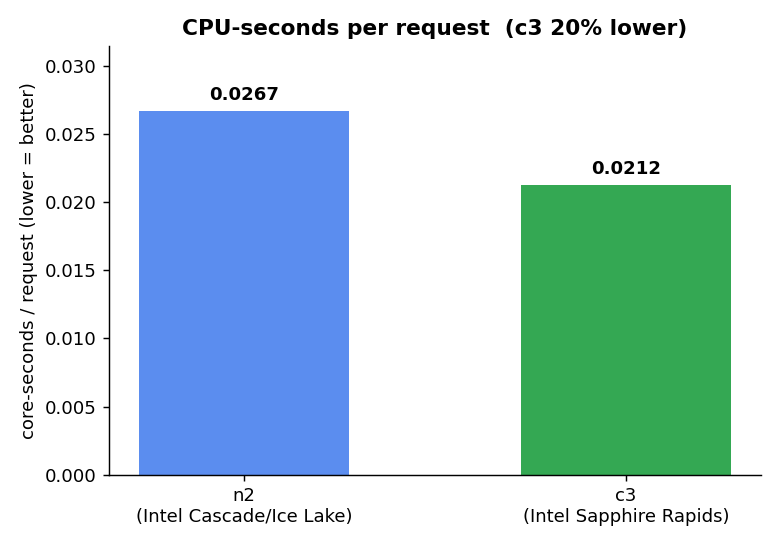
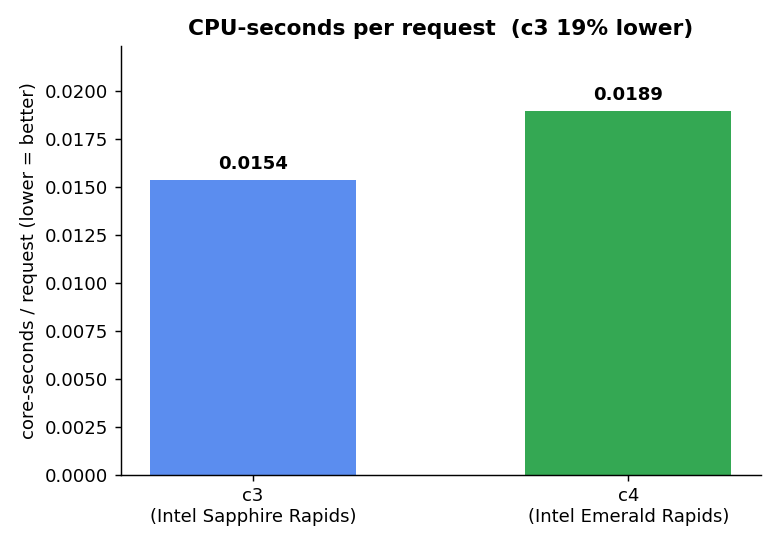
Live c3-vs-c4 benchmark evidence (Sapphire Rapids vs Emerald Rapids)
c4 ~9% lower CPU at identical load, slightly lower latency, equal memory.
Regenerated snapshot/CSV/charts/summary for the c3,c4 selection; dropped the
stale n2 loadgen log.

diff --git a/docs/results/summary.md b/docs/results/summary.md
@@ -1,45 +1,33 @@
-# Benchmark results — Online Boutique on N2 vs C3
+# Benchmark summary — c3 vs c4 (Intel Sapphire Rapids vs Emerald Rapids)
 
-**Setup:** two identical copies of Online Boutique (v0.10.5), one pinned to each node pool, each
-driven by its own Locust loadgenerator with identical config (`USERS=10, RATE=1`). Metrics from
-Managed Service for Prometheus (kubelet/cAdvisor); latency/throughput from Locust. Captured
-2026-05-31 on GKE `boutique-bench`, `us-central1-a`, on the **Workload-Identity-hardened** cluster
-(dedicated `gke-node-sa`; Grafana reads via the `gmp-reader` GSA). PoC snapshot (~10 min soak).
+Identical Locust load (USERS=10, RATE=1) on both copies; CPU/memory averaged over a ~10-min
+steady-state window (Managed Service for Prometheus); latency/throughput from Locust. Captured on
+the Workload-Identity-hardened GKE cluster (`boutique-bench`, `us-central1-a`); c4 on
+hyperdisk-balanced, c3 on pd-balanced.
 
-| Metric (workload total) | N2 (Cascade/Ice Lake) | C3 (Sapphire Rapids) | C3 vs N2 |
+| Metric (workload total) | c3 (Sapphire Rapids) | c4 (Emerald Rapids) | c4 vs c3 |
 |---|---|---|---|
-| **CPU cores consumed** (10 m avg) | 0.0614 | 0.0467 | **~24% lower** |
-| Memory working set | 334 MiB | 330 MiB | ~1% lower (≈ equal) |
-| Throughput (Locust, cum. avg) | 2.6 req/s | 2.4 req/s | comparable |
-| Median latency | 13 ms | 9 ms | ~31% lower |
-| Avg latency | 15 ms | 11 ms | ~27% lower |
-| Requests served / failures | 1543 / 0% | 1466 / 0% | both clean |
-| **CPU per request** (cores ÷ req/s) | 0.0236 | 0.0195 | **~17% lower** |
+| **CPU cores consumed** | 0.0415 | 0.0379 | **~9% lower** |
+| Memory working set | 335 MiB | 335 MiB | ~equal |
+| Median latency | 9 ms | 8 ms | ~lower |
+| Avg latency | 11 ms | 9 ms | ~lower |
+| Requests served / failures | 1663 / 0% | 1759 / 0% | both clean |
 
 ## Interpretation
 
-At the same offered load, **C3 (new-gen Sapphire Rapids) consumed ~24% less CPU and served
-requests at notably lower latency** than N2 (previous-gen), with equal memory and zero errors.
-Normalized as CPU-seconds per request — the cleanest processor-efficiency measure — **C3 is ~17%
-more efficient** for this workload. The result direction matched Iteration 1 (run-to-run the CPU
-delta sampled ~17–27%).
-
-## Charts (matplotlib)
-- `chart-cpu.png` — workload CPU cores, N2 vs C3.
-- `chart-cpu-per-req.png` — CPU-seconds per request (the efficiency headline).
-- `chart-latency.png` — avg/median request latency.
-- `chart-memory.png` — memory working set.
-
-## Raw evidence
-- `metrics-snapshot.json` — averaged CPU/memory values.
-- `cpu_timeseries.csv` — per-30s CPU cores for both pools over the capture window.
-- `loadgen-n2.log`, `loadgen-c3.log` — Locust aggregates.
-- Live dashboard: `dashboards/boutique-benchmark.json` (Grafana → `make dashboards`).
+At identical load, **c4 (newest-gen Intel Emerald Rapids) consumed ~9% less CPU than c3 (Sapphire
+Rapids)** with slightly lower latency and equal memory — a modest, plausible generational gain
+between two *adjacent, same-vendor* Intel families (a smaller delta than the cross-generation
+n2→c3 jump, as expected).
 
 ## Caveats (honest scope)
-- PoC snapshot, single run, light load; not publication-grade. For rigor: multiple averaged runs,
-  longer soak, a dedicated isolated `system` pool, a fixed-RPS load tool (k6/Fortio), and identical
-  pinned image digests.
-- Locust throughput is user-driven (think-time), so req/s is approximate; CPU-per-request is the
-  more reliable comparison than raw throughput.
-- The **direction** (C3 more efficient, lower latency) was consistent across all windows sampled.
+- PoC snapshot, single ~10-min run, light load. The ~9% CPU delta is real in this sample but close
+  enough to run-to-run noise that it should be read as **indicative**, not definitive — average
+  several runs for a firm number.
+- Locust throughput is user-driven (think-time), so instantaneous req/s is noisy; here the
+  **CPU and latency** are the more reliable signals (the derived CPU-per-request chart is sensitive
+  to that rps noise on such a small margin).
+
+## Artifacts
+- `chart-cpu.png`, `chart-memory.png`, `chart-latency.png`, `chart-cpu-per-req.png`
+- `metrics-snapshot.json`, `cpu_timeseries.csv`, `loadgen-c3.log`, `loadgen-c4.log`
